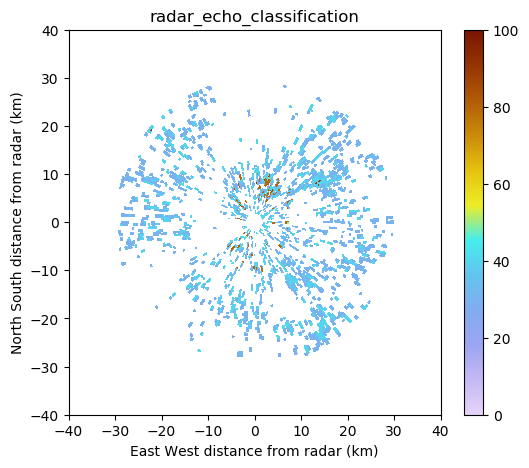
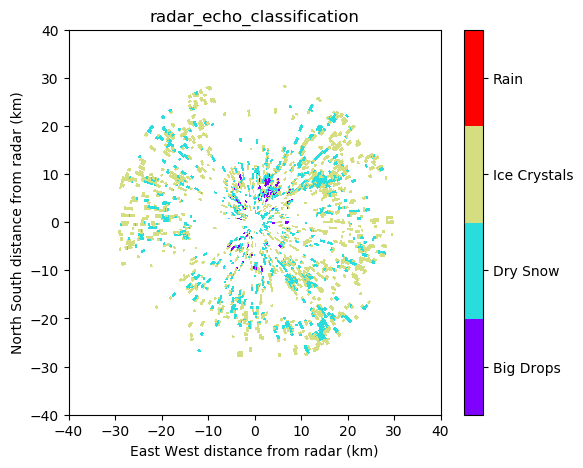
update test viz

diff --git a/test_NEXRAD.py b/test_NEXRAD.py
@@ -243,6 +243,10 @@ def viz_ress(n, vname):
     y = ma.masked_values(y, 0.0) 
     y = ma.masked_values(y, 10.0) 
     y = ma.masked_values(y, 20.0)
+    y = ma.masked_values(y, 50.0)
+    y = ma.masked_values(y, 70.0)
+    y = ma.masked_values(y, 90.0)
+    y = ma.masked_values(y, 100.0)
     y = ma.masked_values(y, 140.0) 
     y = ma.masked_values(y, 150.0) 
 
@@ -250,12 +254,14 @@ def viz_ress(n, vname):
     y = np.where(y == 40, 1, y)
     y = np.where(y == 30, 2, y)
     y = np.where(y == 60, 3, y)
+    y = ma.masked_where(y > 3, y)
 
     N.fields[vname]['data'] = y
 
     fig = plt.figure(figsize=(6, 5))
     
     ax = fig.add_subplot(111)
+    #display.plot(vname, 0, title=vname, colorbar_label='', ax=ax)
     display.plot(vname, 0, title=vname, colorbar_label='', ticks=range(4), ticklabs=['Big Drops', 'Dry Snow', 'Ice Crystals', 'Rain'], ax=ax, vmin=-0.5, vmax=3.5, cmap=discrete_cmap(4, 'rainbow'))
     display.set_limits(xlim=(-40, 40), ylim=(-40, 40), ax=ax)
     plt.show();
